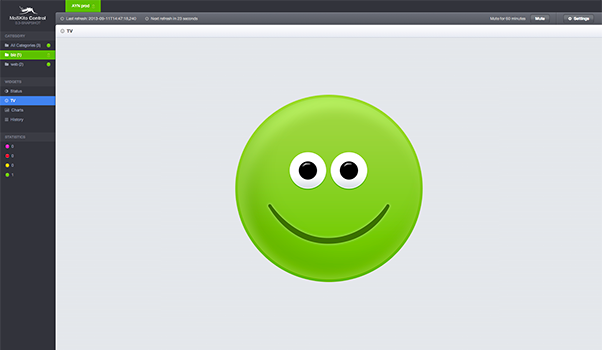
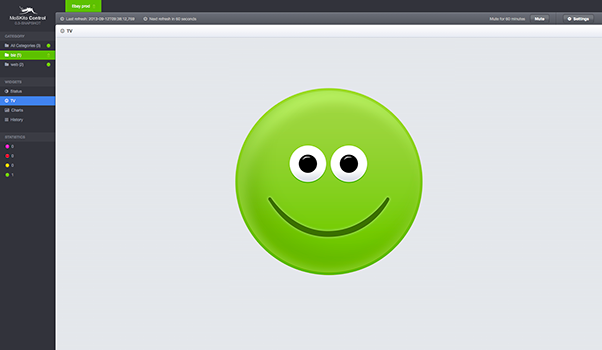
MOS-20: MSK-Control: Make 3 screenshots for Headline image slideshow MOS-23: MSK-Control: Fix the upper navigation links

diff --git a/moskito-control.html b/moskito-control.html
@@ -1,9 +1,11 @@
 <!DOCTYPE html>
 <html xmlns="http://www.w3.org/1999/xhtml">
 <head>
+    <title>MoSKito Control</title>
     <meta http-equiv="Content-Type" content="text/html; charset=UTF-8" />
-    <meta content="width=device-width, initial-scale=1.0" name="viewport">
-    <title>MoSKito</title>
+    <meta content="width=device-width, initial-scale=1.0" name="viewport" />
+    <meta name="description" content="MoSKito Control - Virtual command centre for multi-node Java web applications." />
+    <meta name="keywords" content="MoSKito Control, Virtual command centre, multi-node, Java web applications" />
     <link rel="shortcut icon" href="static-int/img/favicon.ico" type="image/x-icon">
     <link type="text/css" rel="stylesheet" rev="stylesheet" href="static-ext/bootstrap-2.3.2/css/bootstrap.css" />
     <link type="text/css" rel="stylesheet" rev="stylesheet" href="static-ext/bootstrap-2.3.2/css/bootstrap-responsive.css" />
@@ -25,58 +27,6 @@
     fjs.parentNode.insertBefore(js, fjs);
 }(document, 'script', 'facebook-jssdk'));</script>
 <div class="wrapper moskito-control">
-
-    <div id="watchMovie" class="modal hide fade" tabindex="-1" data-width="830">
-        <div class="modal-header">
-            <button type="button" class="close" data-dismiss="modal" aria-hidden="true">×</button>
-            <h3>MoSKito Movie</h3>
-        </div>
-        <div class="modal-body">
-            <object width="100%" height="600" align="middle" id="moskito" classid="clsid:d27cdb6e-ae6d-11cf-96b8-444553540000">
-                <param value="static-int/swf/moskito.swf" name="movie">
-                <param value="high" name="quality">
-                <param value="#ffffff" name="bgcolor">
-                <param value="true" name="play">
-                <param value="true" name="loop">
-                <param value="window" name="wmode">
-                <param value="showall" name="scale">
-                <param value="true" name="menu">
-                <param value="false" name="devicefont">
-                <param value="" name="salign">
-                <param value="sameDomain" name="allowScriptAccess">
-                <!--[if !IE]>-->
-                <object width="100%" height="600" data="static-int/swf/moskito.swf" type="application/x-shockwave-flash">
-                    <param value="moskito.swf" name="movie">
-                    <param value="high" name="quality">
-                    <param value="#ffffff" name="bgcolor">
-                    <param value="true" name="play">
-                    <param value="true" name="loop">
-                    <param value="window" name="wmode">
-                    <param value="showall" name="scale">
-                    <param value="true" name="menu">
-                    <param value="false" name="devicefont">
-                    <param value="" name="salign">
-                    <param value="sameDomain" name="allowScriptAccess">
-                    <!--<![endif]-->
-                    <a href="http://www.adobe.com/go/getflash">
-                        <img alt="Get Adobe Flash player" src="http://www.adobe.com/images/shared/download_buttons/get_flash_player.gif">
-                    </a>
-                    <!--[if !IE]>-->
-                </object>
-                <!--<![endif]-->
-            </object>
-        </div>
-    </div>
-
-    <div id="showDemo" class="modal hide fade" tabindex="-1">
-        <div class="modal-header">
-            <button type="button" class="close" data-dismiss="modal" aria-hidden="true">×</button>
-            <h3>Coming Very Soon</h3>
-        </div>
-        <div class="modal-body">
-            <p>Coming Very Soon! Promise! Scout's honor!</p>
-        </div>
-    </div>
 
     <div class="header">
         <div class="container">

diff --git a/static-int/css/common.css b/static-int/css/common.css
@@ -26,7 +26,8 @@ a:focus {
 
 .header {
     height: 90px;
-    background: #FFF;
+    background-color: #FFF;
+    background-color: rgba(255,255,255,0.93);
     width: 100%;
     visibility: visible;
     position: relative;
@@ -41,6 +42,7 @@ a:focus {
 .main-box {
     height: 540px;
     background: url(../img/main_bg.jpg) no-repeat fixed center 50px;
+    overflow: hidden;
 }
 
 .moskito-control .main-box {
@@ -87,7 +89,6 @@ a:focus {
     position: fixed;
     box-shadow: 0 1px 0px rgba(0,0,0,0.15);
     height: 50px;
-    background: #FFF;
     border: none;
 }
 
@@ -171,7 +172,7 @@ ul.main-menu > li.active > span {
 .display {
     margin-top: 67px;
     width: 656px;
-    height: 473px;
+    height: 553px;
     background: url(../img/display.png) no-repeat center center;
     -moz-background-size: 100%;
     -webkit-background-size: 100%;
@@ -277,12 +278,12 @@ h2 {
     -moz-border-radius: 4px;
     border-radius: 4px;
     overflow: hidden;
-    background: #FFF;
     position: relative;
 }
 
 .display .glass {
     background: url(../img/glass.png) no-repeat;
+    background-size: 100% 100%;
     width: 344px;
     height: 397px;
     position: absolute;
@@ -755,6 +756,30 @@ ul.links > li {
         margin: 75px 0 0 0;
     }
 
+    .display {
+        width: 600px;
+        height: 506px;
+        margin-right: 50px;
+        margin-top: 45px;
+    }
+
+    .display .carousel-area {
+        width: 561px;
+        height: 328px;
+        margin: 20px 0 0 20px;
+    }
+
+    .display .carousel-area img
+    {
+        width: 561px;
+        height: 328px;
+    }
+
+    .display .glass {
+        width: 315px;
+        height: 365px;
+    }
+
     .carousel-area {
         margin: 22px 0 0 82px;
     }
@@ -780,6 +805,28 @@ ul.links > li {
 }
 
 @media (max-width: 1200px) {
+    .display {
+        width: 480px;
+        height: 405px;
+        margin-right: 160px;
+        margin-top: 85px;
+    }
+
+    .display .carousel-area {
+        width: 442px;
+        height: 255px;
+    }
+
+    .display .carousel-area img {
+        width: 442px;
+        height: 255px;
+    }
+
+    .display .glass {
+        width: 252px;
+        height: 293px;
+    }
+
     ul.links > li {
         background: none;
         padding: 0;
@@ -928,6 +975,7 @@ ul.links > li {
         font-family: open_sansregular;
     }
 
+    .moskito-control .main-box,
     .main-box {
         height: 540px;
         background-position: center 0px;

diff --git a/index.html b/index.html
@@ -1,9 +1,11 @@
 <!DOCTYPE html>
 <html xmlns="http://www.w3.org/1999/xhtml">
 <head>
+    <title>MoSKito Monitoring</title>
     <meta http-equiv="Content-Type" content="text/html; charset=UTF-8" />
     <meta content="width=device-width, initial-scale=1.0" name="viewport">
-    <title>MoSKito</title>
+    <meta name="description" content="MoSKito Monitoring - Monitoring for Java applications. Complete ecosystem for DevOps. Free & open source." />
+    <meta name="keywords" content="MoSKito Monitoring, Monitoring for Java applications, Complete ecosystem for DevOps, Free & open source" />
     <link rel="shortcut icon" href="static-int/img/favicon.ico" type="image/x-icon">
     <link type="text/css" rel="stylesheet" rev="stylesheet" href="static-ext/bootstrap-2.3.2/css/bootstrap.css" />
     <link type="text/css" rel="stylesheet" rev="stylesheet" href="static-ext/bootstrap-2.3.2/css/bootstrap-responsive.css" />
@@ -91,7 +93,7 @@
             </div>
             <ul class="main-menu">
                 <li class="active"><span>Essential</span></li>
-                <li class="inactive"><span data-toggle="tooltip" title="Coming soon">Control</span></li>
+                <li><a href="moskito-control.html">Control</a></li>
                 <li class="inactive"><span data-toggle="tooltip" title="Coming soon">Central</span></li>
             </ul>
         </div>
